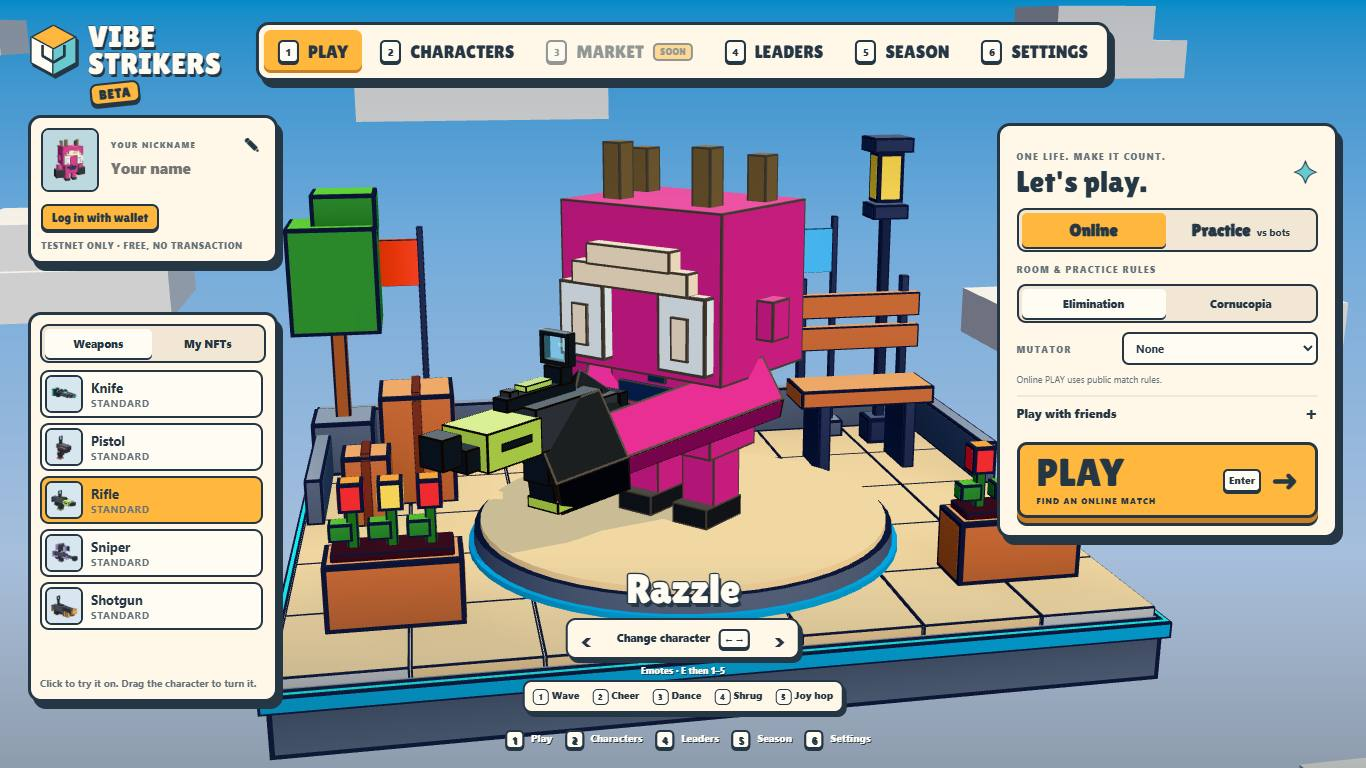
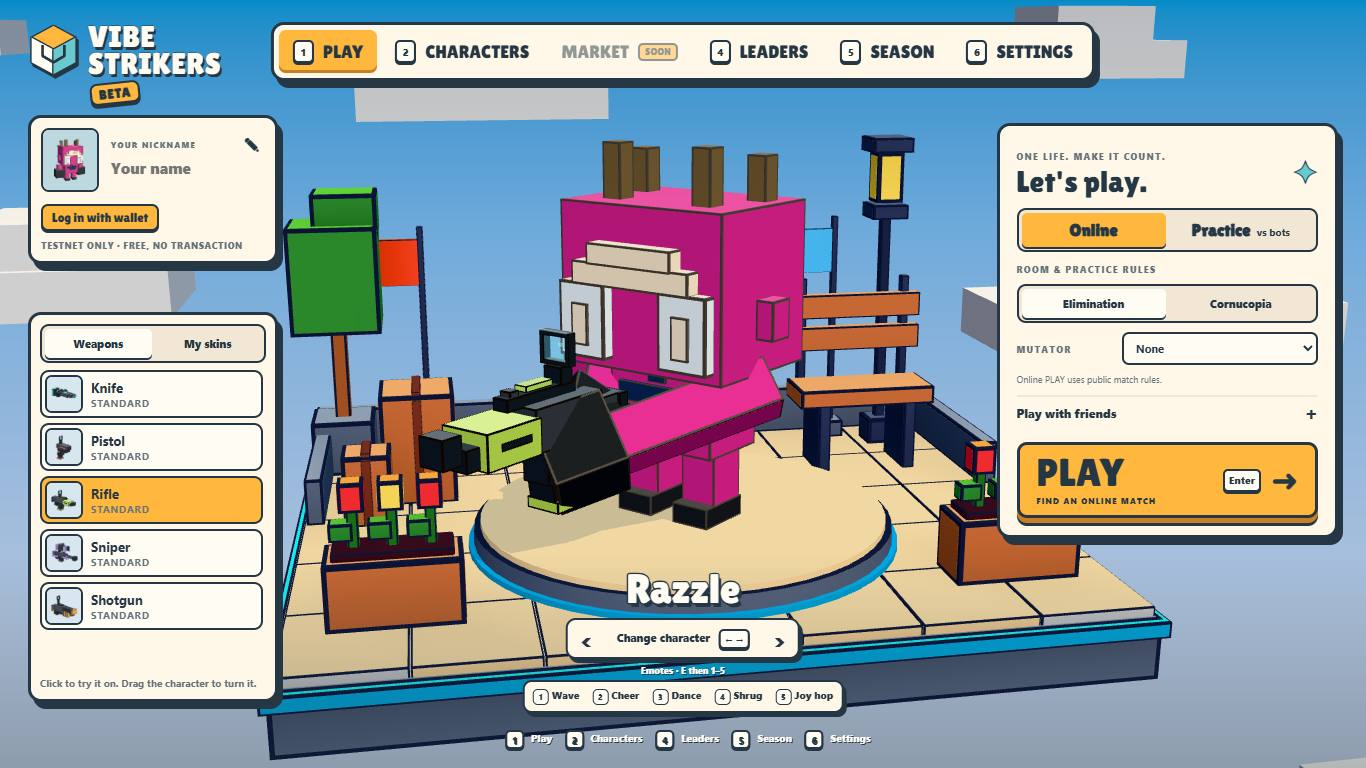
Rewards are plain skins for now: no claim and no NFT wording in the lobby

Changed region(s): [[0.1845, 0.0312, 0.8302, 0.125], [0.1537, 0.4375, 0.1845, 0.4688]]

diff --git a/src/ui/armoryPanel.ts b/src/ui/armoryPanel.ts
@@ -1,6 +1,7 @@
 // Lobby panel on the left (GAME.md 6.11): try a standard weapon or one of your NFT skins on the character, and claim an NFT to
 // your wallet, after a warning that this makes a testnet transaction. Plain DOM over a market-subscribed GameNet; the server decides everything, this panel only shows rows and sends intents.
 import { GAME_WEAPONS } from '../config/weapons.ts';
+import { NFT } from '../config/nft.ts';
 import { REWARDS } from '../config/rewards.ts';
 import { itemRarity } from '../gameplay/marketRules.ts';
 import { nftName } from '../gameplay/nft.ts';
@@ -65,14 +66,15 @@ export class ArmoryPanel {
   private nfts(): string {
     const m = this.net?.market;
     if (!m) return '<p class="market-empty">Connecting…</p>';
-    if (!m.account) return '<p class="market-empty">Log in with a wallet to see your NFTs.</p>';
+    if (!m.account) return '<p class="market-empty">Log in with a wallet to see your skins.</p>';
     const own = [...m.items.values()].filter((i) => i.ref.startsWith('nft:'));
-    if (!own.length) return '<p class="market-empty">No NFTs yet. The first one comes at season level 5.</p>';
+    if (!own.length) return '<p class="market-empty">No skins yet. The first one comes at season level 5.</p>';
     return own.map((i) => {
       const row = m.nfts.get(i.ref), rarity = itemRarity(i.ref);
       const pill = `<i class="market-tier">${rarity}</i>`;
       let extra = '';
-      if (row?.status === 'queued') extra = '<div class="market-meta armory-state">Claimed · waiting for the mint</div>';
+      if (!NFT.claimOpen) extra = '';
+      else if (row?.status === 'queued') extra = '<div class="market-meta armory-state">Claimed · waiting for the mint</div>';
       else if (row?.status === 'sent') extra = `<div class="market-meta armory-state">In your wallet${row.tx ? ` · <a href="${REWARDS.chain.explorer}/tx/${esc(row.tx)}" target="_blank" rel="noreferrer">tx</a>` : ''}</div>`;
       else extra = `<button data-claim-nft="${i.id}" data-ref="${esc(i.ref)}" class="menu-small-action market-buy armory-send" ${this.busy ? 'disabled' : ''}>Claim NFT</button>`;
       return this.row(i.ref, nftName(i.ref), this.art.nft(i.ref), pill, rarity, extra);
@@ -96,7 +98,7 @@ export class ArmoryPanel {
     this.lastDraw = performance.now();
     const list = this.root.querySelector<HTMLElement>('.armory-list');
     const scroll = list?.scrollTop ?? 0;
-    const tabs = (['weapons', 'nfts'] as const).map((v) => `<button data-view="${v}" aria-pressed="${this.view === v}">${v === 'weapons' ? 'Weapons' : 'My NFTs'}</button>`).join('');
+    const tabs = (['weapons', 'nfts'] as const).map((v) => `<button data-view="${v}" aria-pressed="${this.view === v}">${v === 'weapons' ? 'Weapons' : NFT.claimOpen ? 'My NFTs' : 'My skins'}</button>`).join('');
     this.root.innerHTML = `<div class="menu-segment">${tabs}</div>
       <div class="armory-list">${this.view === 'weapons' ? this.weapons() : this.nfts()}</div>
       <small class="armory-note${this.message ? ' has-message' : ''}">${esc(this.message || 'Click to try it on. Drag the character to turn it.')}</small>${this.dialog()}`;

diff --git a/src/ui/seasonPanel.ts b/src/ui/seasonPanel.ts
@@ -3,6 +3,7 @@
 import { PROGRESSION, QUESTS, SEASON, type QuestKind } from '../config/season.ts';
 import { levelOf, questEndMs, questLine, seasonActive, seasonLevel, seasonReward } from '../gameplay/progression.ts';
 import { nftRef, nftReward, nftRewardName } from '../gameplay/nft.ts';
+import { NFT } from '../config/nft.ts';
 import type { GameNet } from '../network/client.ts';
 import type { MarketItemView } from './marketPanel.ts';
 import '../../client/game/market.css';
@@ -75,7 +76,7 @@ export class SeasonPanel {
     this.busy = true; this.status = ''; this.draw();
     try {
       await this.net.claimSeasonRewards();
-      this.status = 'Rewards claimed. NFTs are in the My NFTs panel on the left.'; this.statusBad = false;
+      this.status = 'Rewards claimed. Skins are in the My skins panel on the left.'; this.statusBad = false;
     } catch (e) {
       this.status = e instanceof Error ? e.message : String(e); this.statusBad = true;
     }
@@ -93,8 +94,8 @@ export class SeasonPanel {
     const art = skin ? `<img src="${esc(skin)}" alt="" />` : item
       ? (item.portrait ? `<img src="${esc(item.portrait)}" alt="" />` : `<span class="season-emote">${esc(item.kind === 'emote' ? '♪' : '★')}</span>`)
       : `<span class="season-coins">◉ ${r.coins}</span>`;
-    const title = `${item ? `${item.name} (${item.kind})${r.coins ? ` + ${r.coins} coins` : ''}` : `${r.coins} coins`}${nft ? ` + ${nftRewardName(nft)} (NFT)` : ''}`;
-    return `<li class="${state}${r.item ? ' has-item' : ''}${level === SEASON.levels ? ' is-final' : ''}${skinRef && skinRef === this.previewRef ? ' is-preview' : ''}"${skinRef ? ` data-tryon="${esc(skinRef)}"` : ''} title="${esc(title)}"><b>${level}</b>${art}${nft ? `<em class="season-nft" data-rarity="${nft.rarity}">NFT</em>` : ''}${level <= claimed ? '<i aria-label="claimed">✓</i>' : ''}</li>`;
+    const title = `${item ? `${item.name} (${item.kind})${r.coins ? ` + ${r.coins} coins` : ''}` : `${r.coins} coins`}${nft ? ` + ${nftRewardName(nft)}${NFT.claimOpen ? ' (NFT)' : ''}` : ''}`;
+    return `<li class="${state}${r.item ? ' has-item' : ''}${level === SEASON.levels ? ' is-final' : ''}${skinRef && skinRef === this.previewRef ? ' is-preview' : ''}"${skinRef ? ` data-tryon="${esc(skinRef)}"` : ''} title="${esc(title)}"><b>${level}</b>${art}${nft ? `<em class="season-nft" data-rarity="${nft.rarity}">${NFT.claimOpen ? 'NFT' : 'SKIN'}</em>` : ''}${level <= claimed ? '<i aria-label="claimed">✓</i>' : ''}</li>`;
   }
 
   private draw(): void {
@@ -136,6 +137,6 @@ export class SeasonPanel {
         <ul class="season-missions">${missions}</ul>
       </div>
       <footer><small>Match +${x.match} · win +${x.win} · kill +${x.kill} · headshot +${x.headshot} · first win of the day +${x.firstWinOfDay} XP.
-        Real online matches only. Free for everyone, fixed rewards, all characters stay playable. Click an NFT level to see it on your character.</small></footer>`;
+        Real online matches only. Free for everyone, fixed rewards, all characters stay playable. Click a skin level to see it on your character.</small></footer>`;
   }
 }

diff --git a/src/config/nft.ts b/src/config/nft.ts
@@ -5,6 +5,8 @@ import type { RarityId } from './market.ts';
 export interface NftReward { weapon: string; rarity: RarityId }
 
 export const NFT = {
+  /** Off for now (owner 2026-11-06): rewards are plain skins in the player's items; the lobby says nothing about NFTs or claiming. */
+  claimOpen: false,
   /** SeasonSkins contract (contracts/SeasonSkins.sol), deployed by the owner 2026-11-07. Empty = sending stays closed. */
   contract: '0x23e30403814d584a3a2b462b6cf3622d246cd589',
   /** The owner's wallet: the only account that may mark NFTs as sent. Local tests add theirs to the `nft_admin` table. */

diff --git a/docs/PROGRESS.md b/docs/PROGRESS.md
@@ -684,6 +684,8 @@ Asset owner update (2026-10-31, imported by the owner's assistant, not by the ga
   Checked: contract test with real signatures from the same typed data the lobby sends, test-market, two-player browser run with MOCK wallets. NOT checked: a real sale, expiry on chain.
 - 2026-11-06 owner: Market tab closed (SOON), no wallet-sale test for now: the live contract stays 0x23e3...d589 without `buy`; the version with `buy` is only in the repo. New
   left panel in the lobby (`ui/armoryPanel.ts`): standard weapons and My NFTs, try on, To wallet. Settings restyled like the lobby. Evidence: lobby-weapons-panel, lobby-nft-panel, settings-lobby-style.
+- 2026-11-06 owner, temporary: rewards are plain skins in the player's items, no claim and no NFT wording in the lobby (`NFT.claimOpen = false`). The claim dialog and the
+  contract stay in the code. A skin still cannot be worn in a match.
 - 2026-10-31 owner: ADS proposal approved
 - 2026-10-31 owner: ADS proposal approved (weapon switch, reload start and death cancel aiming).
 - 2026-10-31 owner: ADS = right mouse TOGGLE by default, setting "ADS mode: toggle / hold" (GAME.md 5, 10; M3).

diff --git a/docs/GAME.md b/docs/GAME.md
@@ -305,6 +305,8 @@ wallet the seller signs for free and the buyer sends the transaction (below): th
 - Market closed for now (owner 2026-11-06): the MARKET tab shows SOON and does not open. `ui/marketPanel.ts`, its reducers and the wallet sale stay
   in the code. The live contract (`NFT.contract`) is the first one and has no `buy`; `contracts/SeasonSkins.sol` in the repo has it and
   needs a new deploy when the market opens. Do not press "Deploy NFT contract" until then.
+- For now (owner 2026-11-06, temporary): `NFT.claimOpen` is false. Season rewards are plain skins in the player's items: no claim, no mint button and no
+  word about NFTs in the lobby. Tables, contract and admin site stay; set the flag to true to bring the claim back.
 - Lobby panel on the left (`ui/armoryPanel.ts`): Weapons (try a standard weapon on the character) and My NFTs (try on, Claim NFT). Claim opens a
   warning first: it creates a blockchain transaction, Robinhood Chain testnet only; the owner sends the mint, so it is not instant.
 - Try on: the left panel, or a click on an NFT level of the season track, puts the skin in the lobby character's hand
